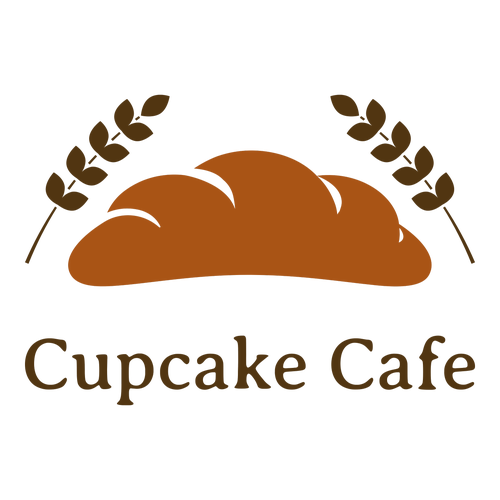
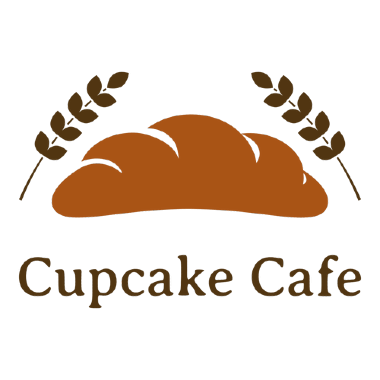
commit directory

diff --git a/chamber/styles/base.css b/chamber/styles/base.css
@@ -415,7 +415,7 @@ div.cards {
     margin: 1rem;
   }
   .cards img {
-    max-width: 80%;
+    max-width: 70%;
   }
   .cards h2,
   .cards p,
